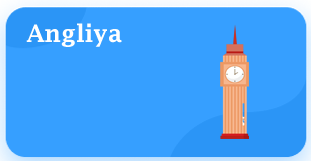
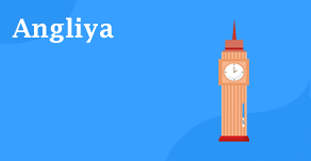
add

Changed region(s): [[0.0, 0.0, 1.0, 1.0], [0.6945, 0.1242, 0.8103, 0.9006]]

diff --git a/client/style.css b/client/style.css
@@ -191,7 +191,7 @@ body {
 .language-section-boxes {
     display: grid;
     grid-template-columns: repeat(4,1fr);
-    gap: 10px;
+    gap: 20px;
 }
 
 .language-section-boxes-box {
@@ -201,6 +201,7 @@ body {
 }
 
 .language-section-boxes-box img {
+    border-radius: 25px;
     margin-bottom: 5px;
     width: 100%;
 }
